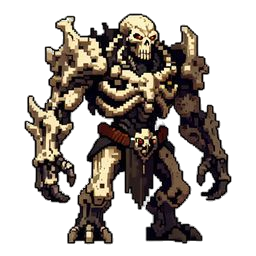
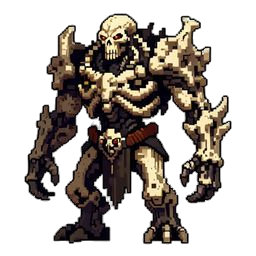
Fix Bone Behemoth: flip sprite to face left, fix scoping crash
- Flipped sprite image so it faces left (toward player army) like
  all other enemy sprites
- Fixed hpGain/dmgGain variable scoping: they were const inside the
  stat-gain block but referenced in the animation onComplete callback
  in a separate block, causing ReferenceError and game freeze

diff --git a/src/EntityManager.js b/src/EntityManager.js
@@ -309,9 +309,11 @@ export class Unit {
             if (absorptionBoss) boneBehemothAbsorption = true;
         }
 
+        let hpGain = 0;
+        let dmgGain = 0;
         if (boneBehemothAbsorption) {
-            const hpGain = this.maxHealth;
-            const dmgGain = Math.floor(this.damage * 0.5);
+            hpGain = this.maxHealth;
+            dmgGain = Math.floor(this.damage * 0.5);
             absorptionBoss.maxHealth += hpGain;
             absorptionBoss.health = Math.min(absorptionBoss.health + hpGain, absorptionBoss.maxHealth);
             absorptionBoss.damage += dmgGain;
